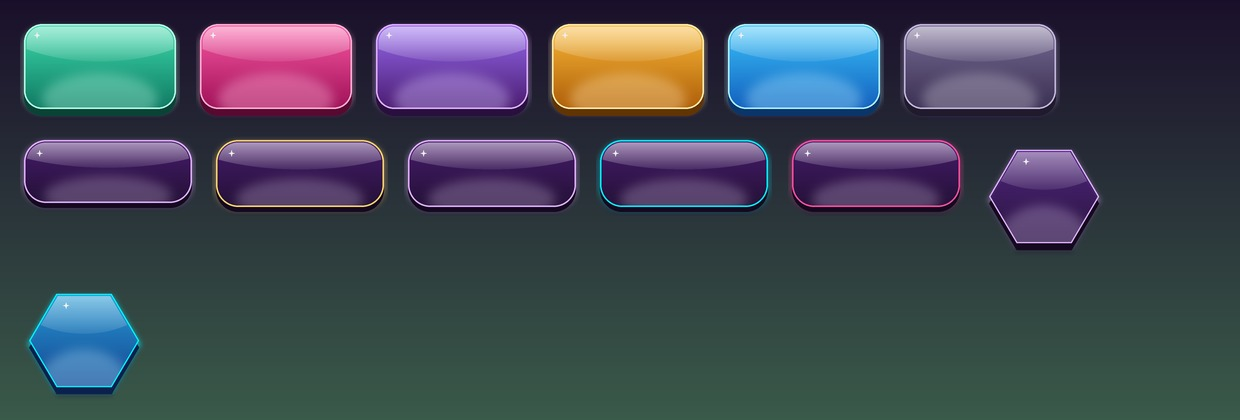
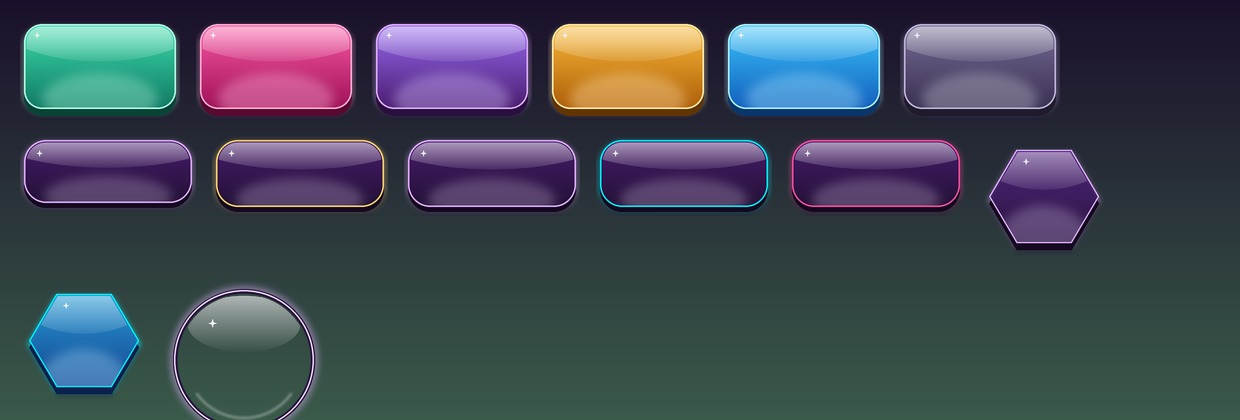
Give the status orbs a jelly shell with a lit rim, the boss bar two crystal spurs and the hatch a short build-up under Fast cutscenes. Repair the regression list and make the zipline and strike zone steps of the tests stand on real floor and retry.

Changed region(s): [[0.1226, 0.681, 0.2758, 1.0]]

diff --git a/spike/retention_test.py b/spike/retention_test.py
@@ -21,17 +21,19 @@ S1(P + "p:SetAttribute('DevGiftSecs',1300) return 1"); time.sleep(2.5)
 print("two claims at 21 minutes:", C1("local R=game.ReplicatedStorage.Remotes.Gift R:FireServer('claim') task.wait(0.6) R:FireServer('claim') task.wait(0.9) R:FireServer('claim') task.wait(0.9) return tostring(game.Players.LocalPlayer:GetAttribute('DevPaid'))"))
 print("bad messages:", C1("local R=game.ReplicatedStorage.Remotes.Gift R:FireServer(7) R:FireServer({}) R:FireServer('claim', 99) task.wait(0.9) return tostring(game.Players.LocalPlayer:GetAttribute('DevPaid'))"))
 # the Golden Vein Surge: the strike zone the server sends is twice as wide
-N.key("Q"); time.sleep(32)
+N.key("Q"); time.sleep(44)  # the ride down: 30 s, longer in a slow Studio
 ZONE = ("local z local con=game.ReplicatedStorage.Remotes.Fx.OnClientEvent:Connect(function(k,dep,kind,t0,arc,zone) if k=='mgStart' and kind=='strike' then z=zone end end) "
         "local h=game.Players.LocalPlayer.Character.HumanoidRootPart local best,bd for _,d in workspace.Caves.Deposits:GetChildren() do local pp=d.PrimaryPart if pp and d:GetAttribute('Game')~='rush' then local m=(pp.Position-h.Position).Magnitude if not bd or m<bd then best,bd=d,m end end end "
         "return 1")
 def zone(tries=4):  # walk to deposits further and further away until one starts a Perfect Strike; return the zone the server sent
     for k in range(tries):
-        S1(P + "local list={} for _,d in workspace.Caves.Deposits:GetChildren() do local pp=d.PrimaryPart local pr=pp and d:FindFirstChildWhichIsA('ProximityPrompt',true) if pr and pr.Enabled and not d:GetAttribute('DevUsed') then list[#list+1]={d,(pp.Position-h.Position).Magnitude} end end "
-               "table.sort(list,function(a,b) return a[2]<b[2] end) local d=list[1][1] d:SetAttribute('DevUsed',true) h.AssemblyLinearVelocity=Vector3.zero h.CFrame=CFrame.new(d.PrimaryPart.Position+Vector3.new(0,3,4)) return 1")
+        # the deposits nearest the camp, one after another (near the camp no Gloomling comes: a test that wandered off lost its character once)
+        S1("local p=game.Players:GetPlayers()[1] local h=p.Character:WaitForChild('HumanoidRootPart',10) local land=workspace.Caves:FindFirstChild('LiftLanding',true) "
+           "local list={} for _,d in workspace.Caves.Deposits:GetChildren() do local pp=d.PrimaryPart local pr=pp and d:FindFirstChildWhichIsA('ProximityPrompt',true) if pr and pr.Enabled and not d:GetAttribute('DevUsed') then list[#list+1]={d,(pp.Position-land.Position).Magnitude} end end "
+               "table.sort(list,function(a,b) return a[2]<b[2] end) local d=list[1][1] d:SetAttribute('DevUsed',true) local c=d.PrimaryPart.Position local rp=RaycastParams.new() rp.FilterDescendantsInstances={d,p.Character} rp.FilterType=Enum.RaycastFilterType.Exclude local spot for _,r in {5,4,6,3} do for k=0,7 do local a=k*math.pi/4 local at=c+Vector3.new(math.cos(a)*r,0,math.sin(a)*r) local wall=workspace:Raycast(c,at-c,rp) local floor=workspace:Raycast(at+Vector3.new(0,4,0),Vector3.new(0,-10,0),rp) local roof=floor and workspace:Raycast(floor.Position+Vector3.new(0,0.5,0),Vector3.new(0,6,0),rp) if floor and not wall and not roof then spot=floor.Position break end end if spot then break end end if not spot then return 'no floor' end h.AssemblyLinearVelocity=Vector3.zero h.CFrame=CFrame.new(spot+Vector3.new(0,3,0)) return 1")  # on open floor beside the deposit (a blind offset once put the character inside rock)
         time.sleep(1.5)
         r = C1("local z,kd local con=game.ReplicatedStorage.Remotes.Fx.OnClientEvent:Connect(function(k,dep,kind,t0,arc,zn) if k=='mgStart' then z,kd=zn,kind end end) "
-               "local h=game.Players.LocalPlayer.Character.HumanoidRootPart local best,bd for _,d in workspace.Caves.Deposits:GetDescendants() do if d:IsA('ProximityPrompt') and d.Enabled then local m=(d.Parent.Position-h.Position).Magnitude if not bd or m<bd then best,bd=d,m end end end "
+               "local h=game.Players.LocalPlayer.Character:WaitForChild('HumanoidRootPart',15) local best,bd for _,d in workspace.Caves.Deposits:GetDescendants() do if d:IsA('ProximityPrompt') and d.Enabled then local m=(d.Parent.Position-h.Position).Magnitude if not bd or m<bd then best,bd=d,m end end end "
                "local cam=workspace.CurrentCamera cam.CFrame=CFrame.lookAt(cam.CFrame.Position,best.Parent.Position) task.wait(0.4) best:InputHoldBegin() task.wait(0.15) best:InputHoldEnd() task.wait(1) con:Disconnect() return tostring(kd)..' '..tostring(z)")
         time.sleep(10)  # let the minigame run out
         if r.startswith("strike"): return r

diff --git a/spike/night_all.py b/spike/night_all.py
@@ -19,7 +19,7 @@ TESTS = [  # script, [(what, text that must be in the output)]
     ("ping_test.py", [("marker and beam", "marks on screen: 1 beam true"), ("bad pings refused", "(0 expected): 0"), ("rate limit", "(1 expected): 1"), ("no HUD overlap", "0 overlaps, 0 prompt overlaps")]),
     ("travel_test.py", [("hearth refused in town", "hearth in town: 1 no:Caves only"), ("hearth refused while grabbed", "hearth while grabbed: 1 no:Grabbed!"), ("hearth cannot end early", "hearth ended early: 2 go:3 no:Stand still | studs from camp: far"),
         ("hearth cannot end after walking away", "1 no:Stand still | studs from camp: far"), ("hearth brings you home", "done:300 | studs from camp: near"), ("hearth cooldown", "cooldown on: True"),
-        ("zip refused far from the grip", "grip moved on the client: prompt fired 1, 0 rides"), ("zip refused while grabbed", "zip while grabbed: prompt fired 1, 0 rides"), ("zip rides from the grip", "at the handle: prompt fired 1, 1 rides | studs from the far post: near"),
+        ("zip refused far from the grip", "grip moved on the client: prompt fired 1, 0 rides"), ("zip refused while grabbed", "zip while grabbed: prompt fired 1, 0 rides"), ("zip rides once however often it is pressed", ", 1 rides | studs from the far post: near"),
         ("grotto zip rides back", "(handle 4): prompt fired 1, 1 rides | studs from the near post: near"), ("camp 2 refused before the gate", "gate shut: in cave true studs from Camp 1 near"), ("lift holds the rider, once", "lift asked twice: 1 ride of 12 s"),
         ("no hearth on the lift", "picture up: true | hearth: no:Not now"), ("lift lets go at Camp 2", "lift, 16 s in: anchored false studs from Camp 2 near"), ("Q offers both camps", "panel true in cave false"),
         ("the pick rides to Camp 2", "picked Camp 2: anchored false studs from Camp 2 near"), ("no client errors", "client errors: 0")]),
@@ -35,8 +35,7 @@ TESTS = [  # script, [(what, text that must be in the output)]
         ("vents never rest in a surge", "never rests in a surge: True"), ("no client errors", "client errors: 0")]),
     ("retention_test.py", [("gift pill counts down", "pills at the start: NEXT GIFT"), ("no gift before its time", "claim with nothing due: ?"), ("a due gift is paid once", "claim again at once: coins:150"),
         ("gifts are paid in order", "two claims at 21 minutes: coins:150 flares:2 gems:10"), ("bad messages pay nothing", "bad messages: coins:150 flares:2 gems:10"), ("golden surge doubles the zone", "zone doubled: True"),
-        ("event pill shows the surge", "GOLD SURGE ON"), ("friends are counted", "board: 2/5 FRIENDS HERE / +15% ORE VALUE IS ON"), ("rift is off by default", "rift off: 1 in the Clay Caves, 1 in Camp 1"), ("rift triples Clay Caves ore only", "rift on: 3 in the Clay Caves, 1 in Camp 1"), ("rift crystal shows", "crystal: true"), ("refinery refuses without a geode", "refinery, no geode:  none"), ("refinery starts once", "refinery, a geode in, pressed again:  none start |  none start wait"), ("refinery pays once", "refinery, done:  none start wait paid"), ("refinery is empty after", "refinery, empty again:  none start wait paid none"), ("refinery refuses from far away", "refinery, pressed from far away:  none start wait paid none
-"), ("no client errors", "client errors: 0"), ("no server errors", "server errors: 0")]),
+        ("event pill shows the surge", "GOLD SURGE ON"), ("friends are counted", "board: 2/5 FRIENDS HERE / +15% ORE VALUE IS ON"), ("rift is off by default", "rift off: 1 in the Clay Caves, 1 in Camp 1"), ("rift triples Clay Caves ore only", "rift on: 3 in the Clay Caves, 1 in Camp 1"), ("rift crystal shows", "crystal: true"), ("refinery refuses without a geode", "refinery, no geode: none"), ("refinery starts once", "refinery, a geode in, pressed again: none start | none start wait"), ("refinery pays once", "refinery, done: none start wait paid"), ("refinery is empty after", "refinery, empty again: none start wait paid none"), ("refinery refuses from far away", "refinery, pressed from far away: none start wait paid none" + chr(10)), ("no client errors", "client errors: 0"), ("no server errors", "server errors: 0")]),
     ("verify_night.py", [("wind-up dodge", "after stepping away 100"), ("way home embers", "(PASS over 0), at camp 0 (PASS 0)")]),
 ]
 bad = 0

diff --git a/art/pd_ui_jelly.py b/art/pd_ui_jelly.py
@@ -112,6 +112,47 @@ def hexpts(n, lip):
 save("hex", jelly((128, 128), H("#5a2a8c"), H("#241138"), H("#e0b0ff"), alpha=236, lip=7, pts=hexpts(128, 7)))
 save("hexOn", jelly((128, 128), H("#2aa8e0"), H("#123a8c"), H("#00f0ff"), alpha=244, lip=7, pts=hexpts(128, 7), lit=True))
 
+
+
+def orb_shell(n=160):
+    """The glass ball of a status orb as jelly: a clear middle (the liquid shows through), a bright lavender rim with a soft glow,
+    a white dome crescent over the upper third, a thin light arc low inside, a small glint."""
+    W = n * SS
+    im = Image.new("RGBA", (W, W), CLEAR)
+    c, r = W / 2, (n / 2 - 9) * SS
+    glow = Image.new("L", (W, W), 0)
+    ImageDraw.Draw(glow).ellipse((c - r - 3 * SS, c - r - 3 * SS, c + r + 3 * SS, c + r + 3 * SS), fill=120)
+    hole = Image.new("L", (W, W), 0)
+    ImageDraw.Draw(hole).ellipse((c - r, c - r, c + r, c + r), fill=255)
+    glow = ImageChops.subtract(glow.filter(ImageFilter.GaussianBlur(3 * SS)), hole)
+    im.alpha_composite(Image.merge("RGBA", tuple(Image.new("L", (W, W), v) for v in (224, 176, 255)) + (glow,)))
+    d = ImageDraw.Draw(im)
+    d.ellipse((c - r, c - r, c + r, c + r), outline=(36, 17, 56, 255), width=int(4.5 * SS))  # the dark body of the rim
+    d.ellipse((c - r + 1.2 * SS, c - r + 1.2 * SS, c + r - 1.2 * SS, c + r - 1.2 * SS), outline=(236, 214, 255, 255), width=int(1.6 * SS))  # the lit rim
+    ri = r - 5.5 * SS
+    inner = Image.new("L", (W, W), 0)
+    ImageDraw.Draw(inner).ellipse((c - ri, c - ri, c + ri, c + ri), fill=255)
+    dome = Image.new("L", (W, W), 0)
+    ImageDraw.Draw(dome).ellipse((c - ri * 0.86, c - ri * 0.98, c + ri * 0.86, c - ri * 0.12), fill=255)
+    fade = Image.new("L", (W, W), 0)
+    fd = ImageDraw.Draw(fade)
+    for y in range(int(c - ri), int(c)):
+        t = (y - (c - ri)) / (ri * 0.9)
+        fd.line([(0, y), (W, y)], fill=int(max(0, 0.62 * (1 - t)) * 255))
+    dome = ImageChops.multiply(ImageChops.multiply(dome, inner), fade)
+    im.alpha_composite(Image.merge("RGBA", (Image.new("L", (W, W), 255),) * 3 + (dome,)))
+    low = Image.new("L", (W, W), 0)  # a thin light arc low inside the glass
+    ld = ImageDraw.Draw(low)
+    ld.arc((c - ri * 0.9, c - ri * 0.9, c + ri * 0.9, c + ri * 0.9), 35, 145, fill=110, width=int(2.2 * SS))
+    im.alpha_composite(Image.merge("RGBA", (Image.new("L", (W, W), 255),) * 3 + (low.filter(ImageFilter.GaussianBlur(1.2 * SS)),)))
+    gx, gy, g = c - ri * 0.48, c - ri * 0.56, 4.2 * SS
+    d = ImageDraw.Draw(im)
+    d.polygon([(gx, gy - g), (gx + g * 0.24, gy - g * 0.24), (gx + g, gy), (gx + g * 0.24, gy + g * 0.24), (gx, gy + g), (gx - g * 0.24, gy + g * 0.24), (gx - g, gy), (gx - g * 0.24, gy - g * 0.24)], fill=(255, 255, 255, 245))
+    return im.resize((n, n), Image.LANCZOS)
+
+
+save("orbShell", orb_shell())
+
 sheet = Image.new("RGBA", (1240, 420), (0, 0, 0, 255))
 sheet.alpha_composite(vgrad(sheet.size, H("#1a0f2a"), H("#3a5a4a"), 0, 420))
 x, y, rowh = 20, 20, 0

diff --git a/spike/travel_test.py b/spike/travel_test.py
@@ -45,7 +45,10 @@ S1(AT % 1); time.sleep(1.5)
 S1(P + "p:SetAttribute('GrabbedUntil',1) return 1")
 print("zip while grabbed:", zip_(1, 1, 1.0), "rides")
 S1(P + "p:SetAttribute('GrabbedUntil',nil) return 1")
-print("zip pressed 3 times at the handle:", zip_(1, 3, 5.0), "rides | studs from the far post:", S1(FAR % (1, "ZipB")))
+z = zip_(1, 3, 5.0)
+if z.endswith(", 0"):  # the prompt was not on screen yet (a slow Studio): stand at the grip and press again
+    S1(AT % 1); time.sleep(2); z = zip_(1, 3, 5.0)
+print("zip pressed 3 times at the handle:", z, "rides | studs from the far post:", S1(FAR % (1, "ZipB")))
 S1(AT % 4); time.sleep(1.5)
 print("grotto zip back (handle 4):", zip_(4, 1, 5.5), "rides | studs from the near post:", S1(FAR % (3, "ZipA")))
 # the glass lift: the Studio hook DevClay opens the gate and travels; pressed twice, held, left alone
